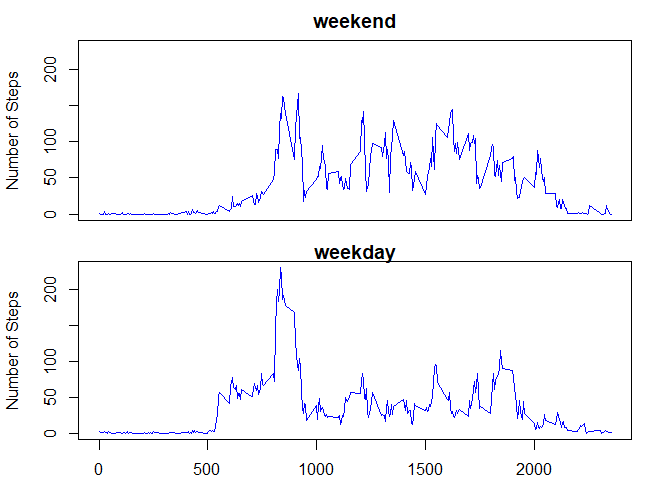
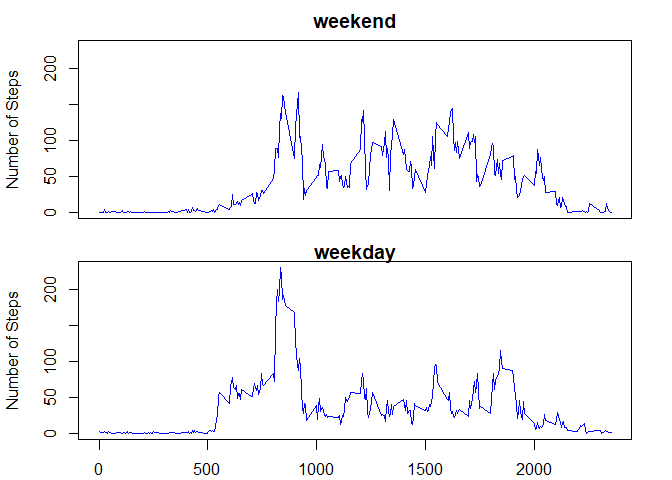
Second commit

diff --git a/PA1_template.html b/PA1_template.html
@@ -151,74 +151,15 @@ hist(total_steps$total_steps,
      xlab = &quot;Total Step Taken Each Day&quot;, col = &quot;light blue&quot;)</code></pre>
[1 lines of base64/hex data omitted]
 <pre class="r"><code>mm_data &lt;- dat %&gt;% group_by(date) %&gt;% 
-  summarise(Mean = mean(steps, na.rm = TRUE),
-  Median = median(steps, na.rm = TRUE))
+  summarise(total = sum(steps)) %&gt;% 
+  summarise(Mean = mean(total, na.rm = TRUE), 
+            Median = median(total, na.rm = TRUE))
 
 print(mm_data, quote = FALSE, row_names = FALSE, n = dim(mm_data)[1])</code></pre>
-<pre><code>## # A tibble: 61 x 3
-##    date          Mean Median
-##    &lt;date&gt;       &lt;dbl&gt;  &lt;dbl&gt;
-##  1 2012-10-01 NaN         NA
-##  2 2012-10-02   0.438      0
-##  3 2012-10-03  39.4        0
-##  4 2012-10-04  42.1        0
-##  5 2012-10-05  46.2        0
-##  6 2012-10-06  53.5        0
-##  7 2012-10-07  38.2        0
-##  8 2012-10-08 NaN         NA
-##  9 2012-10-09  44.5        0
-## 10 2012-10-10  34.4        0
-## 11 2012-10-11  35.8        0
-## 12 2012-10-12  60.4        0
-## 13 2012-10-13  43.1        0
-## 14 2012-10-14  52.4        0
-## 15 2012-10-15  35.2        0
-## 16 2012-10-16  52.4        0
-## 17 2012-10-17  46.7        0
-## 18 2012-10-18  34.9        0
-## 19 2012-10-19  41.1        0
-## 20 2012-10-20  36.1        0
-## 21 2012-10-21  30.6        0
-## 22 2012-10-22  46.7        0
-## 23 2012-10-23  31.0        0
-## 24 2012-10-24  29.0        0
-## 25 2012-10-25   8.65       0
-## 26 2012-10-26  23.5        0
-## 27 2012-10-27  35.1        0
-## 28 2012-10-28  39.8        0
-## 29 2012-10-29  17.4        0
-## 30 2012-10-30  34.1        0
-## 31 2012-10-31  53.5        0
-## 32 2012-11-01 NaN         NA
-## 33 2012-11-02  36.8        0
-## 34 2012-11-03  36.7        0
-## 35 2012-11-04 NaN         NA
-## 36 2012-11-05  36.2        0
-## 37 2012-11-06  28.9        0
-## 38 2012-11-07  44.7        0
-## 39 2012-11-08  11.2        0
-## 40 2012-11-09 NaN         NA
-## 41 2012-11-10 NaN         NA
-## 42 2012-11-11  43.8        0
-## 43 2012-11-12  37.4        0
-## 44 2012-11-13  25.5        0
-## 45 2012-11-14 NaN         NA
-## 46 2012-11-15   0.142      0
-## 47 2012-11-16  18.9        0
-## 48 2012-11-17  49.8        0
-## 49 2012-11-18  52.5        0
-## 50 2012-11-19  30.7        0
-## 51 2012-11-20  15.5        0
-## 52 2012-11-21  44.4        0
-## 53 2012-11-22  70.9        0
-## 54 2012-11-23  73.6        0
-## 55 2012-11-24  50.3        0
-## 56 2012-11-25  41.1        0
-## 57 2012-11-26  38.8        0
-## 58 2012-11-27  47.4        0
-## 59 2012-11-28  35.4        0
-## 60 2012-11-29  24.5        0
-## 61 2012-11-30 NaN         NA</code></pre>
+<pre><code>## # A tibble: 1 x 2
+##    Mean Median
+##   &lt;dbl&gt;  &lt;int&gt;
+## 1 10766  10765</code></pre>
 </div>
 <div id="what-is-the-average-daily-activity-pattern" class="section level2">
 <h2>What is the average daily activity pattern?</h2>
@@ -260,74 +201,15 @@ hist(total_steps$total_steps,
 <li>The mean and median of the total number of steps taken per date without missing data.</li>
 </ul>
 <pre class="r"><code>mm_data &lt;- dat1 %&gt;% group_by(date) %&gt;% 
-  summarise(Mean = mean(steps, na.rm = TRUE),
-  Median = median(steps, na.rm = TRUE))
+  summarise(total = sum(steps)) %&gt;% 
+  summarise(Mean = mean(total, na.rm = TRUE), 
+            Median = median(total, na.rm = TRUE))
 
 print(mm_data, quote = FALSE, row_names = FALSE, n = dim(mm_data)[1])</code></pre>
-<pre><code>## # A tibble: 61 x 3
-##    date         Mean Median
-##    &lt;date&gt;      &lt;dbl&gt;  &lt;dbl&gt;
-##  1 2012-10-01 37.4     34.1
-##  2 2012-10-02  0.438    0  
-##  3 2012-10-03 39.4      0  
-##  4 2012-10-04 42.1      0  
-##  5 2012-10-05 46.2      0  
-##  6 2012-10-06 53.5      0  
-##  7 2012-10-07 38.2      0  
-##  8 2012-10-08 37.4     34.1
-##  9 2012-10-09 44.5      0  
-## 10 2012-10-10 34.4      0  
-## 11 2012-10-11 35.8      0  
-## 12 2012-10-12 60.4      0  
-## 13 2012-10-13 43.1      0  
-## 14 2012-10-14 52.4      0  
-## 15 2012-10-15 35.2      0  
-## 16 2012-10-16 52.4      0  
-## 17 2012-10-17 46.7      0  
-## 18 2012-10-18 34.9      0  
-## 19 2012-10-19 41.1      0  
-## 20 2012-10-20 36.1      0  
-## 21 2012-10-21 30.6      0  
-## 22 2012-10-22 46.7      0  
-## 23 2012-10-23 31.0      0  
-## 24 2012-10-24 29.0      0  
-## 25 2012-10-25  8.65     0  
-## 26 2012-10-26 23.5      0  
-## 27 2012-10-27 35.1      0  
-## 28 2012-10-28 39.8      0  
-## 29 2012-10-29 17.4      0  
-## 30 2012-10-30 34.1      0  
-## 31 2012-10-31 53.5      0  
-## 32 2012-11-01 37.4     34.1
-## 33 2012-11-02 36.8      0  
-## 34 2012-11-03 36.7      0  
-## 35 2012-11-04 37.4     34.1
-## 36 2012-11-05 36.2      0  
-## 37 2012-11-06 28.9      0  
-## 38 2012-11-07 44.7      0  
-## 39 2012-11-08 11.2      0  
-## 40 2012-11-09 37.4     34.1
-## 41 2012-11-10 37.4     34.1
-## 42 2012-11-11 43.8      0  
-## 43 2012-11-12 37.4      0  
-## 44 2012-11-13 25.5      0  
-## 45 2012-11-14 37.4     34.1
-## 46 2012-11-15  0.142    0  
-## 47 2012-11-16 18.9      0  
-## 48 2012-11-17 49.8      0  
-## 49 2012-11-18 52.5      0  
-## 50 2012-11-19 30.7      0  
-## 51 2012-11-20 15.5      0  
-## 52 2012-11-21 44.4      0  
-## 53 2012-11-22 70.9      0  
-## 54 2012-11-23 73.6      0  
-## 55 2012-11-24 50.3      0  
-## 56 2012-11-25 41.1      0  
-## 57 2012-11-26 38.8      0  
-## 58 2012-11-27 47.4      0  
-## 59 2012-11-28 35.4      0  
-## 60 2012-11-29 24.5      0  
-## 61 2012-11-30 37.4     34.1</code></pre>
+<pre><code>## # A tibble: 1 x 2
+##    Mean Median
+##   &lt;dbl&gt;  &lt;dbl&gt;
+## 1 10766  10766</code></pre>
 </div>
 <div id="are-there-differences-in-activity-patterns-between-weekdays-and-weekends" class="section level2">
 <h2>Are there differences in activity patterns between weekdays and weekends?</h2>
@@ -346,7 +228,7 @@ im_data_weekday &lt;- dat2 %&gt;% filter(day_type == &quot;weekday&quot;) %&gt;%
   group_by(interval) %&gt;% summarise(Mean = mean(steps))
 
 par(mfrow = c(2,1))
-par(mar = c(1,4.1,2.1,2.1))
+par(mar = c(1.1,4.1,2.1,2.1))
 weekday_max = max(im_data_weekend$Mean)
 weekend_max = max(im_data_weekday$Mean)
 ymax = max(c(weekend_max,weekday_max))
@@ -357,7 +239,7 @@ par(mar = c(2.1,4.1,1.1,2.1))
 plot(x=im_data_weekday$interval, y=im_data_weekday$Mean, type = &quot;l&quot;, 
      main = &quot;weekday&quot;, ylim = c(0, ymax),
      xlab = &quot;5-minute Interval&quot;, ylab = &quot;Number of Steps&quot;, col = &quot;blue&quot;)</code></pre>
[2 lines of base64/hex data omitted]
 </div>
 
 

diff --git a/PA1_template.md b/PA1_template.md
@@ -56,77 +56,18 @@ hist(total_steps$total_steps,
 
 ```r
 mm_data <- dat %>% group_by(date) %>% 
-  summarise(Mean = mean(steps, na.rm = TRUE),
-  Median = median(steps, na.rm = TRUE))
+  summarise(total = sum(steps)) %>% 
+  summarise(Mean = mean(total, na.rm = TRUE), 
+            Median = median(total, na.rm = TRUE))
 
 print(mm_data, quote = FALSE, row_names = FALSE, n = dim(mm_data)[1])
 ```
 
 ```
-## # A tibble: 61 x 3
-##    date          Mean Median
-##    <date>       <dbl>  <dbl>
-##  1 2012-10-01 NaN         NA
-##  2 2012-10-02   0.438      0
-##  3 2012-10-03  39.4        0
-##  4 2012-10-04  42.1        0
-##  5 2012-10-05  46.2        0
-##  6 2012-10-06  53.5        0
-##  7 2012-10-07  38.2        0
-##  8 2012-10-08 NaN         NA
-##  9 2012-10-09  44.5        0
-## 10 2012-10-10  34.4        0
-## 11 2012-10-11  35.8        0
-## 12 2012-10-12  60.4        0
-## 13 2012-10-13  43.1        0
-## 14 2012-10-14  52.4        0
-## 15 2012-10-15  35.2        0
-## 16 2012-10-16  52.4        0
-## 17 2012-10-17  46.7        0
-## 18 2012-10-18  34.9        0
-## 19 2012-10-19  41.1        0
-## 20 2012-10-20  36.1        0
-## 21 2012-10-21  30.6        0
-## 22 2012-10-22  46.7        0
-## 23 2012-10-23  31.0        0
-## 24 2012-10-24  29.0        0
-## 25 2012-10-25   8.65       0
-## 26 2012-10-26  23.5        0
-## 27 2012-10-27  35.1        0
-## 28 2012-10-28  39.8        0
-## 29 2012-10-29  17.4        0
-## 30 2012-10-30  34.1        0
-## 31 2012-10-31  53.5        0
-## 32 2012-11-01 NaN         NA
-## 33 2012-11-02  36.8        0
-## 34 2012-11-03  36.7        0
-## 35 2012-11-04 NaN         NA
-## 36 2012-11-05  36.2        0
-## 37 2012-11-06  28.9        0
-## 38 2012-11-07  44.7        0
-## 39 2012-11-08  11.2        0
-## 40 2012-11-09 NaN         NA
-## 41 2012-11-10 NaN         NA
-## 42 2012-11-11  43.8        0
-## 43 2012-11-12  37.4        0
-## 44 2012-11-13  25.5        0
-## 45 2012-11-14 NaN         NA
-## 46 2012-11-15   0.142      0
-## 47 2012-11-16  18.9        0
-## 48 2012-11-17  49.8        0
-## 49 2012-11-18  52.5        0
-## 50 2012-11-19  30.7        0
-## 51 2012-11-20  15.5        0
-## 52 2012-11-21  44.4        0
-## 53 2012-11-22  70.9        0
-## 54 2012-11-23  73.6        0
-## 55 2012-11-24  50.3        0
-## 56 2012-11-25  41.1        0
-## 57 2012-11-26  38.8        0
-## 58 2012-11-27  47.4        0
-## 59 2012-11-28  35.4        0
-## 60 2012-11-29  24.5        0
-## 61 2012-11-30 NaN         NA
+## # A tibble: 1 x 2
+##    Mean Median
+##   <dbl>  <int>
+## 1 10766  10765
 ```
 
 ## What is the average daily activity pattern?
@@ -190,77 +131,18 @@ hist(total_steps$total_steps,
 
 ```r
 mm_data <- dat1 %>% group_by(date) %>% 
-  summarise(Mean = mean(steps, na.rm = TRUE),
-  Median = median(steps, na.rm = TRUE))
+  summarise(total = sum(steps)) %>% 
+  summarise(Mean = mean(total, na.rm = TRUE), 
+            Median = median(total, na.rm = TRUE))
 
 print(mm_data, quote = FALSE, row_names = FALSE, n = dim(mm_data)[1])
 ```
 
 ```
-## # A tibble: 61 x 3
-##    date         Mean Median
-##    <date>      <dbl>  <dbl>
-##  1 2012-10-01 37.4     34.1
-##  2 2012-10-02  0.438    0  
-##  3 2012-10-03 39.4      0  
-##  4 2012-10-04 42.1      0  
-##  5 2012-10-05 46.2      0  
-##  6 2012-10-06 53.5      0  
-##  7 2012-10-07 38.2      0  
-##  8 2012-10-08 37.4     34.1
-##  9 2012-10-09 44.5      0  
-## 10 2012-10-10 34.4      0  
-## 11 2012-10-11 35.8      0  
-## 12 2012-10-12 60.4      0  
-## 13 2012-10-13 43.1      0  
-## 14 2012-10-14 52.4      0  
-## 15 2012-10-15 35.2      0  
-## 16 2012-10-16 52.4      0  
-## 17 2012-10-17 46.7      0  
-## 18 2012-10-18 34.9      0  
-## 19 2012-10-19 41.1      0  
-## 20 2012-10-20 36.1      0  
-## 21 2012-10-21 30.6      0  
-## 22 2012-10-22 46.7      0  
-## 23 2012-10-23 31.0      0  
-## 24 2012-10-24 29.0      0  
-## 25 2012-10-25  8.65     0  
-## 26 2012-10-26 23.5      0  
-## 27 2012-10-27 35.1      0  
-## 28 2012-10-28 39.8      0  
-## 29 2012-10-29 17.4      0  
-## 30 2012-10-30 34.1      0  
-## 31 2012-10-31 53.5      0  
-## 32 2012-11-01 37.4     34.1
-## 33 2012-11-02 36.8      0  
-## 34 2012-11-03 36.7      0  
-## 35 2012-11-04 37.4     34.1
-## 36 2012-11-05 36.2      0  
-## 37 2012-11-06 28.9      0  
-## 38 2012-11-07 44.7      0  
-## 39 2012-11-08 11.2      0  
-## 40 2012-11-09 37.4     34.1
-## 41 2012-11-10 37.4     34.1
-## 42 2012-11-11 43.8      0  
-## 43 2012-11-12 37.4      0  
-## 44 2012-11-13 25.5      0  
-## 45 2012-11-14 37.4     34.1
-## 46 2012-11-15  0.142    0  
-## 47 2012-11-16 18.9      0  
-## 48 2012-11-17 49.8      0  
-## 49 2012-11-18 52.5      0  
-## 50 2012-11-19 30.7      0  
-## 51 2012-11-20 15.5      0  
-## 52 2012-11-21 44.4      0  
-## 53 2012-11-22 70.9      0  
-## 54 2012-11-23 73.6      0  
-## 55 2012-11-24 50.3      0  
-## 56 2012-11-25 41.1      0  
-## 57 2012-11-26 38.8      0  
-## 58 2012-11-27 47.4      0  
-## 59 2012-11-28 35.4      0  
-## 60 2012-11-29 24.5      0  
-## 61 2012-11-30 37.4     34.1
+## # A tibble: 1 x 2
+##    Mean Median
+##   <dbl>  <dbl>
+## 1 10766  10766
 ```
 
 ## Are there differences in activity patterns between weekdays and weekends?
@@ -280,7 +162,7 @@ im_data_weekday <- dat2 %>% filter(day_type == "weekday") %>%
   group_by(interval) %>% summarise(Mean = mean(steps))
 
 par(mfrow = c(2,1))
-par(mar = c(1,4.1,2.1,2.1))
+par(mar = c(1.1,4.1,2.1,2.1))
 weekday_max = max(im_data_weekend$Mean)
 weekend_max = max(im_data_weekday$Mean)
 ymax = max(c(weekend_max,weekday_max))
